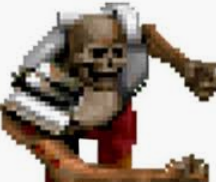
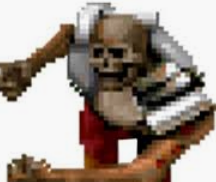
animaties updated

diff --git a/rock.js b/rock.js
@@ -85,6 +85,9 @@ $('#btn').click(function () {
                 .animate({
                     opacity: 1
                 });
+                $('#computer').css('background-image',"url('img/revenantLow.png')");
+                $('#player').css('background-image',"url('img/player.png')");
+
         })
         $('#foto').animate({
             opacity: 0
@@ -107,6 +110,7 @@ $('#btn').click(function () {
                 }).animate({
                     opacity: 0
                 });
+                $("#computer").effect( "bounce", {times:3}, 300 );
         });
     }
 
@@ -140,6 +144,9 @@ $('#btn').click(function () {
                 .animate({
                     opacity: 1
                 });
+                $('#player').css('background-image', "url('img/playerLow.png')");
+                $('#computer').css('background-image',"url('img/revenant.png')");
+              
         })
         $('#foto').animate({
             opacity: 0
@@ -160,6 +167,7 @@ $('#btn').click(function () {
                 }).animate({
                     opacity: 0
                 });
+                $("#player").effect( "bounce", {times:3}, 300 );
         });
     }
 
@@ -255,43 +263,16 @@ let randitem = function () {
    //score animatie
 
    
-/*    computerwin += gekozen.infoPC;
+   computerwin += gekozen.infoPC;
    $('#pc').text("pc score: " + computerwin);
-   $('#scorepc').stop(true).animate({
-        opacity: 0
-    }, 50, function () {
-        $('#scorepc').text(gekozen.infoPC)
-            .animate({
-                opacity: 1
-            }).animate({
-                opacity: 0
-            });
-    }); */
+  
     
-    menswin += gekozen.info;
+   menswin += gekozen.info;
     $('#mens').text("jouw score: " + menswin );  
-    $('#scoreman').stop(true).animate({
-        opacity: 0
-    }, 50, function () {
-        $('#scoreman').text(gekozen.info)
-            .animate({
-                opacity: 1
-            }).animate({
-                opacity: 0
-            });
-    });  
+   
 
     
-
 }
-
-$(document).ready(function() {
-
-    $("#btn").click(function(){
-       $("#scores").effect( "bounce", {times:3}, 300 );
-    });
-
- });
 
 
 

diff --git a/main.css b/main.css
@@ -106,7 +106,7 @@ outline:dashed 1px Chartreuse ;
 
 #player {
     background-image: url(img/player.png);
-    width: 200px;
+    width: 300px;
     height:300px;
     background-size:cover;
     position: absolute;
@@ -114,7 +114,7 @@ outline:dashed 1px Chartreuse ;
 
 #computer {
     background-image: url(img/revenant.png);
-    width: 200px;
+    width: 300px;
     height:300px;
     background-size:cover;
     position: absolute;
@@ -145,7 +145,8 @@ outline:dashed 1px Chartreuse ;
 .buttonwrapper {
     width:100%;
     display: flex;
-    flex-direction: column;
+    flex-direction: row;
     justify-content: center;
     align-items: center;
+    margin-top: 50px;
 }
